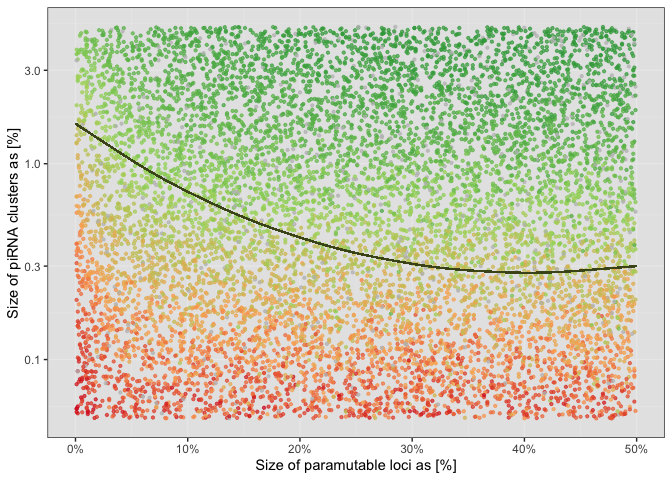
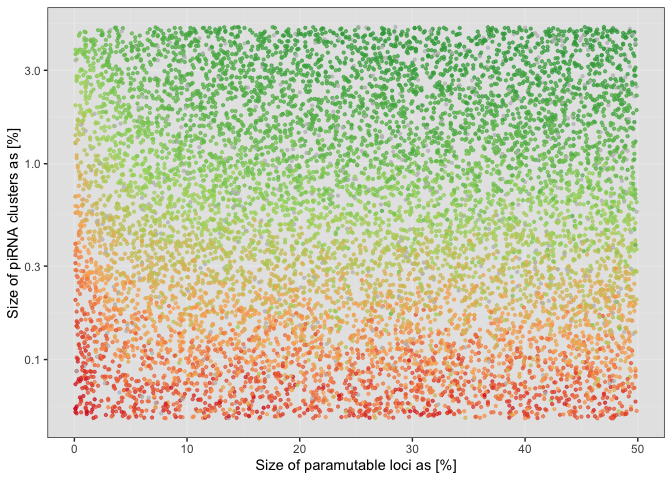
Figures fix

diff --git a/Simulation/2022_11_07_Simulation_7_Storm.md b/Simulation/2022_11_07_Simulation_7_Storm.md
@@ -100,9 +100,8 @@ df_2[df_2$popstat=="fail-0",]$col<-"grey"
 df_2$col<-as.factor(df_2$col)
 
 
-g_para_selection<-ggplot(df,aes(x=sampleid_para/1000,y=sampleid_x,color=col))+scale_color_manual(values=levels(df$col))+
+g_para_selection<-ggplot(df,aes(x=sampleid_para/10,y=sampleid_x,color=col))+scale_color_manual(values=levels(df$col))+
   geom_point(alpha=0.7,size=0.8)+scale_y_log10()+
-  scale_x_continuous(labels = scales::percent)+
   ylab("Negative selection coefficient")+
   xlab("Size of paramutable loci as [%]")+
   geom_hline(aes(yintercept=0.001), linetype = "dashed", size=1)+
@@ -114,10 +113,8 @@ plot(g_para_selection)
 ![](2022_11_07_Simulation_7_Storm_files/figure-gfm/unnamed-chunk-4-1.png)<!-- -->
 
 ``` r
-g_para_cluster<-ggplot(df_2,aes(x=sampleid_para/1000,y=sampleid_clu/100000,color=col))+scale_color_manual(values=levels(df_2$col))+
+g_para_cluster<-ggplot(df_2,aes(x=sampleid_para/10,y=sampleid_clu/100000,color=col))+scale_color_manual(values=levels(df_2$col))+
   geom_point(alpha=0.7,size=0.8)+scale_y_log10()+
-  geom_curve(aes(x = 0, y = 1.6, xend = 0.5, yend = 0.30), data = df_2, angle = 90, curvature = 0.2, color="#4B5320", alpha=0.5)+
-  scale_x_continuous(labels = scales::percent)+
   ylab("Size of piRNA clusters as [%]")+
   xlab("Size of paramutable loci as [%]")+
   theme(legend.position = "none",panel.background = element_rect(fill="grey90"))
